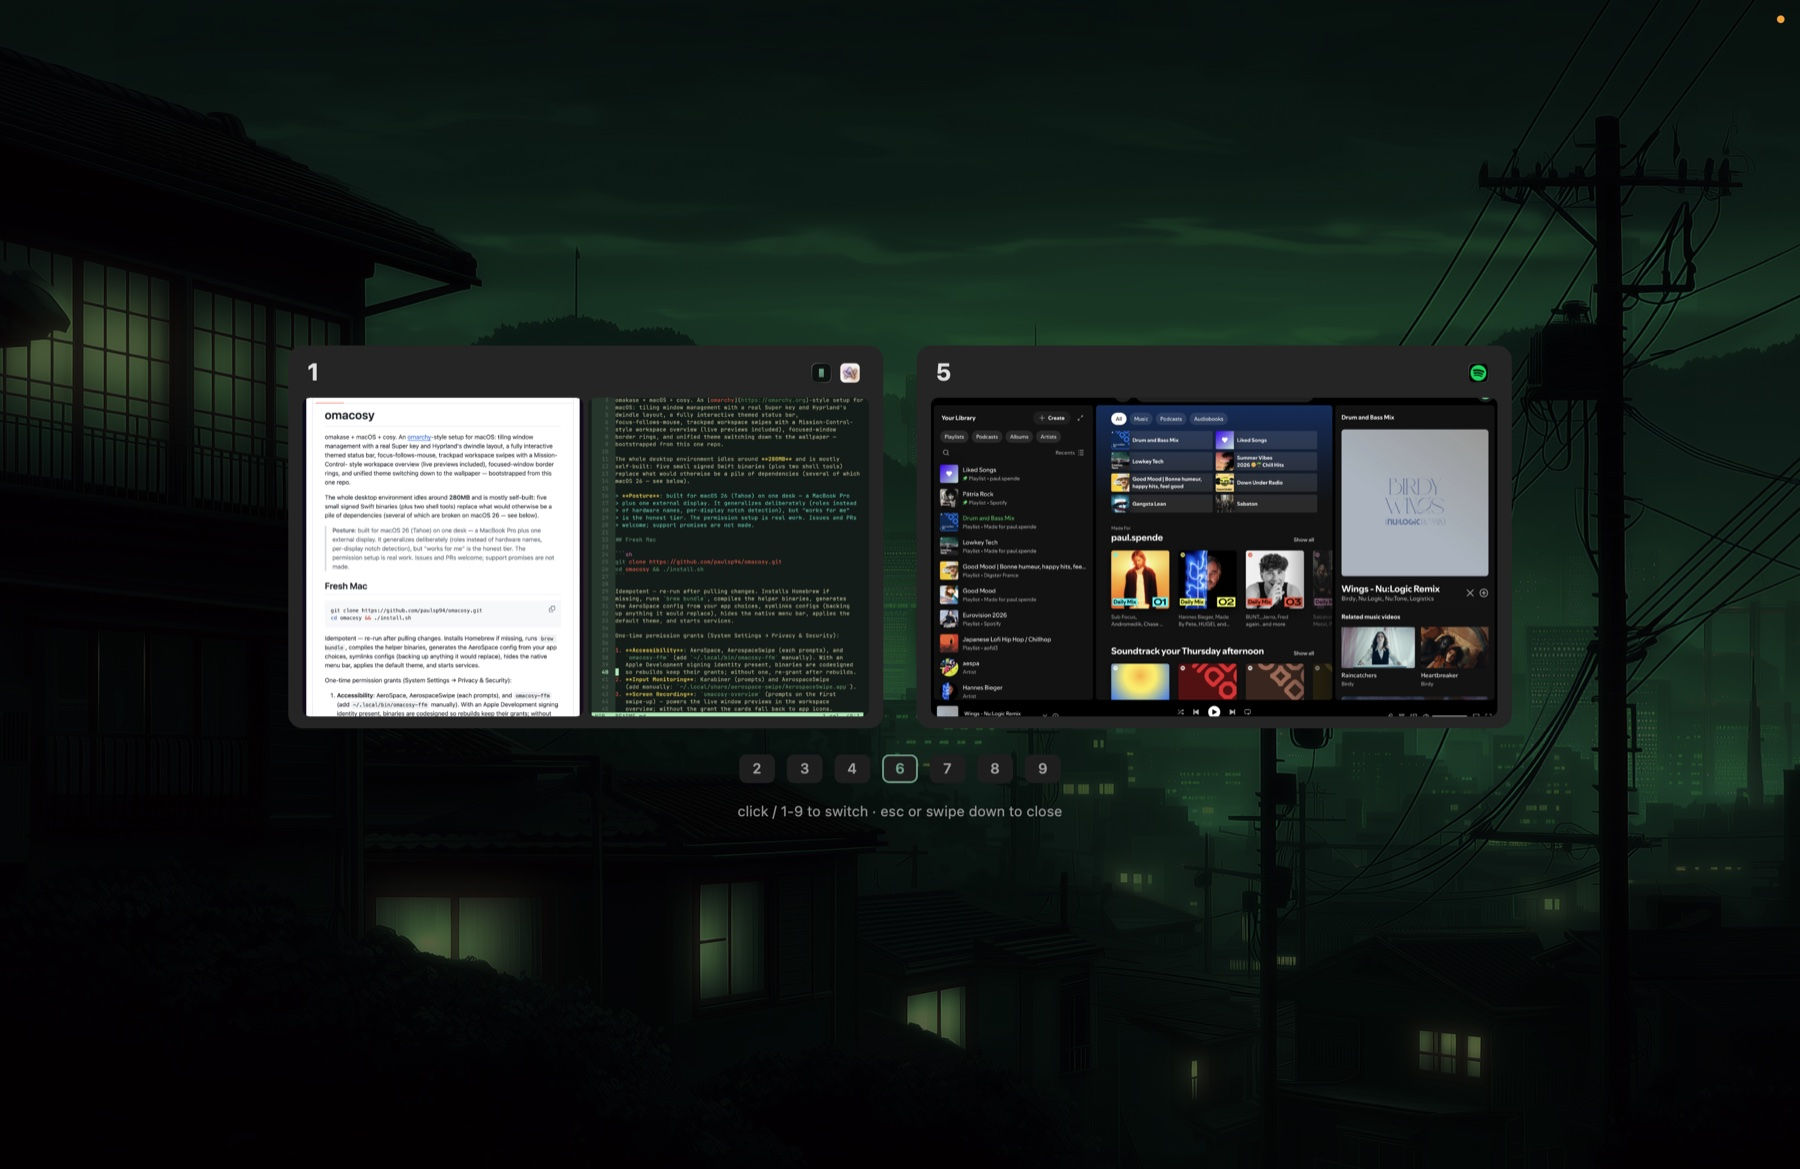
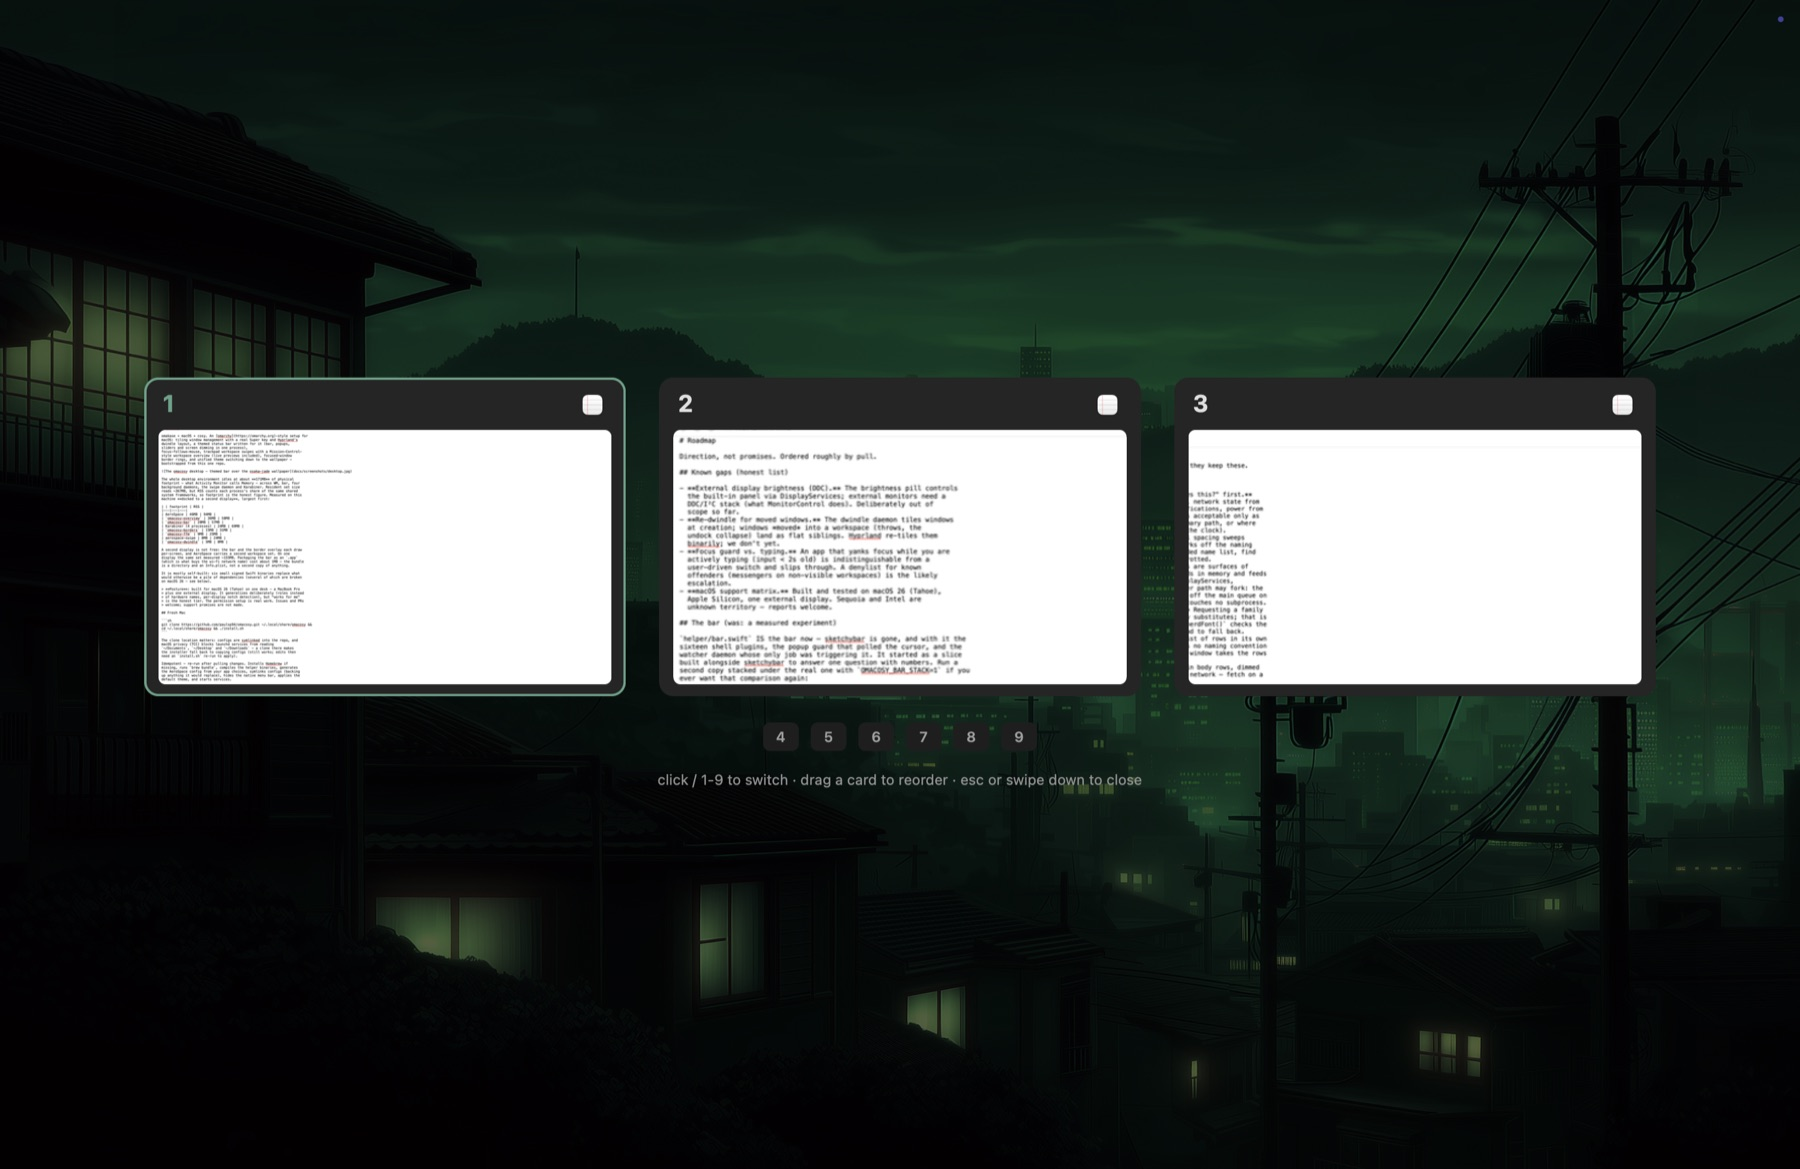
docs: a script that shoots the screenshots, and shots with nobody in them
The old overview.jpg showed the author's Spotify — account name,
playlists, listening history — because the honest way to photograph a
desktop is to photograph the real one. So the desktop gets staged
instead: docs/screenshots.sh parks everything on the laptop screen
onto the external display (recording each window's origin), stages
this repo's own markdown in TextEdit, shoots, and puts every window
back where it was.

Four shots now, all from the built-in display: the bar over an empty
desktop, three windows in dwindle, the cheatsheet, and the overview —
with the windows dealt across workspaces first, because one card is a
poor advert for a workspace overview.

Three things it took a rebuild each to learn, all now encoded:

- The desktop and tiling shots came out byte-identical: both were
  taken after staging. The empty one has to be shot before anything
  opens.
- The overview and the cheatsheet open on the display holding the
  CURSOR, and it drifts. Placing it needed a new
  `omacosy-helper cursor set` — a warp, not a move, so
  focus-follows-mouse cannot react to it.
- Order matters even then: aerospace's own on-focused-monitor-changed
  hook runs `move-mouse monitor-lazy-center`, so switching workspace
  AFTER the warp dragged the pointer straight back to the other
  display. Measured: warped to 4196,749, the switch put it at
  1720,720. Switch first, warp second.

Each shot is checked against every earlier one and warns when two come
[…]

Changed region(s): [[0.0622, 0.2772, 0.9333, 0.7083]]

diff --git a/helper/main.swift b/helper/main.swift
@@ -1,6 +1,8 @@
 // omacosy-helper — tiny compiled utility replacing four brew dependencies
 // (cliclick, desktoppr, switchaudio-osx, blueutil):
 //   cursor                  print the cursor position as "x,y" (CG top-left)
+//   cursor set <x> <y>      warp it there (no synthetic movement, so
+//                           focus-follows-mouse cannot react)
 //   displays                per display (arrangement order): "index<TAB>notched"
 //   wallpaper <path>        set the desktop picture on every screen
 //   audio list              output devices: "*<TAB>name" (current) / "-<TAB>name"
@@ -106,6 +108,15 @@ func deviceName(_ id: AudioDeviceID) -> String {
 let args = CommandLine.arguments
 switch args.count > 1 ? args[1] : "" {
 case "cursor":
+    // `cursor set X Y` warps without synthesising movement, which is
+    // exactly what a script wants: focus-follows-mouse is movement-gated,
+    // so placing the pointer this way cannot make it steal focus.
+    if args.count > 2, args[2] == "set" {
+        guard args.count > 4, let x = Double(args[3]), let y = Double(args[4])
+        else { fail("usage: cursor set <x> <y>") }
+        CGWarpMouseCursorPosition(CGPoint(x: x, y: y))
+        break
+    }
     guard let e = CGEvent(source: nil) else { exit(1) }
     print("\(Int(e.location.x)),\(Int(e.location.y))")
 

diff --git a/README.md b/README.md
@@ -269,6 +269,8 @@ typing or app shortcuts. Caps Lock tapped alone is Escape.
 | `Super+shift+l` | lock the screen |
 | `Super+k` | keybinding cheatsheet (this table, rendered from the config) |
 
+![The keybinding cheatsheet — every binding, parsed from aerospace.toml](docs/screenshots/cheatsheet.jpg)
+
 Screenshots, clipboard and app switching stay macOS's own (`Cmd+Shift+3/4/5`,
 `Cmd+C/V`, `Cmd+Tab`) — `Alt+Tab` above is the *window*-scoped switcher
 macOS lacks.
